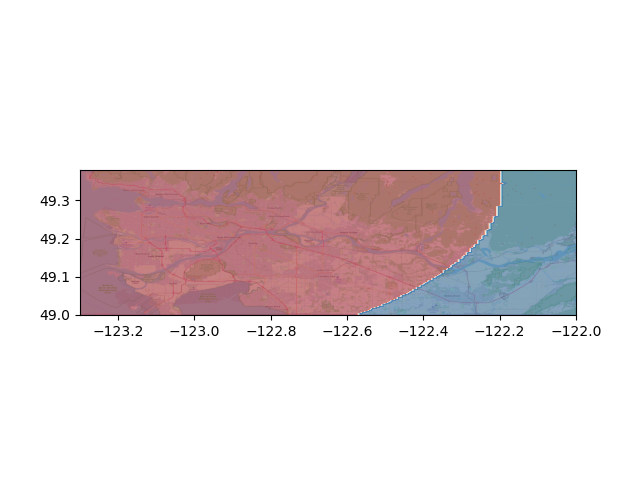
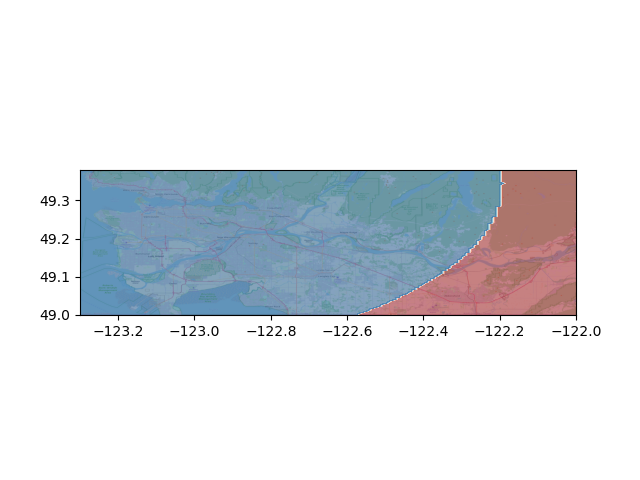
fixing colours for classifier

Changed region(s): [[0.125, 0.3438, 0.9062, 0.6562]]

diff --git a/code/main.py b/code/main.py
@@ -36,9 +36,9 @@ data_scheme = types.StructType([
      
 def to_float(x):
     if x == "false":
-        return 0
+        return 1 #1 for blue, 0 for red
     elif x == "true":
-        return 1
+        return 0
     else:
         print("bad")
     
@@ -52,7 +52,7 @@ def classify(data):
     #rf
     rf_model = make_pipeline(
         StandardScaler(),
-        RandomForestClassifier(n_estimators=6, max_depth=3, min_samples_leaf=5)
+        RandomForestClassifier(n_estimators=100, max_depth=4, min_samples_leaf=8, class_weight='balanced')
     )
     rf_model.fit(X_train, y_train)
     print(rf_model.score(X_valid, y_valid))
@@ -80,7 +80,7 @@ def classify(data):
     xa, xb = xa.reshape((len(xa), 1)), xb.reshape((len(xb), 1))
     grid = hstack((xa,xb))
     
-    predictions = knn_model.predict(grid)#can change model
+    predictions = rf_model.predict(grid)#can change model
     
     zz = predictions.reshape(xx.shape)
     func = np.vectorize(to_float)
@@ -94,7 +94,7 @@ def classify(data):
     plt.imshow(img, zorder=0, extent= BBox)
     plt.contourf(yy, xx, zz, alpha=0.5, cmap='RdBu')
     #plt.show()
-    plt.savefig('../data/knn.png')#should change name to match model
+    plt.savefig('../data/rf.png')#should change name to match model
     
 
 def main():
